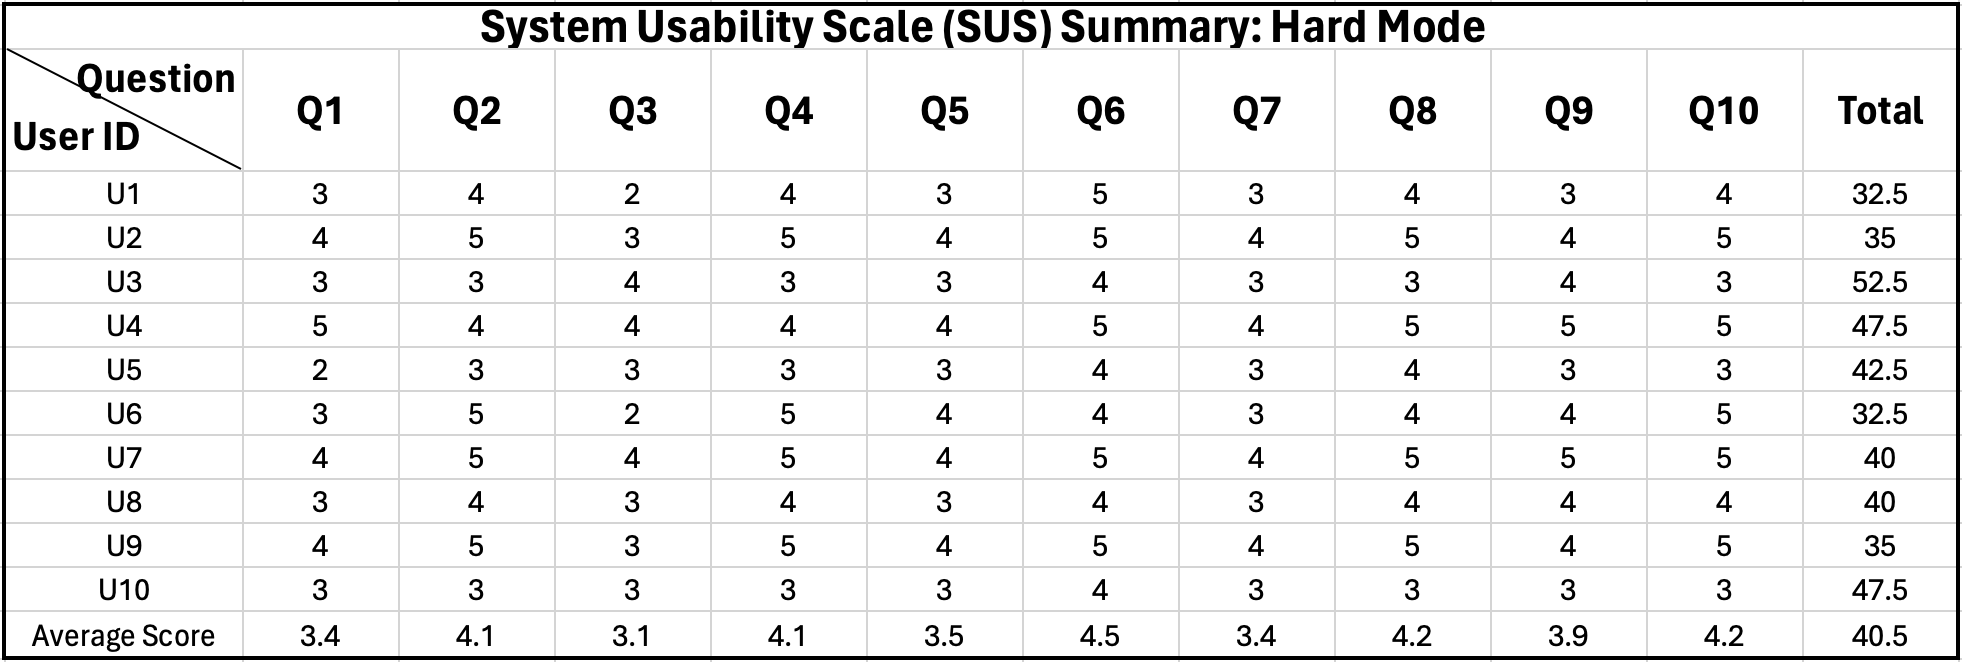
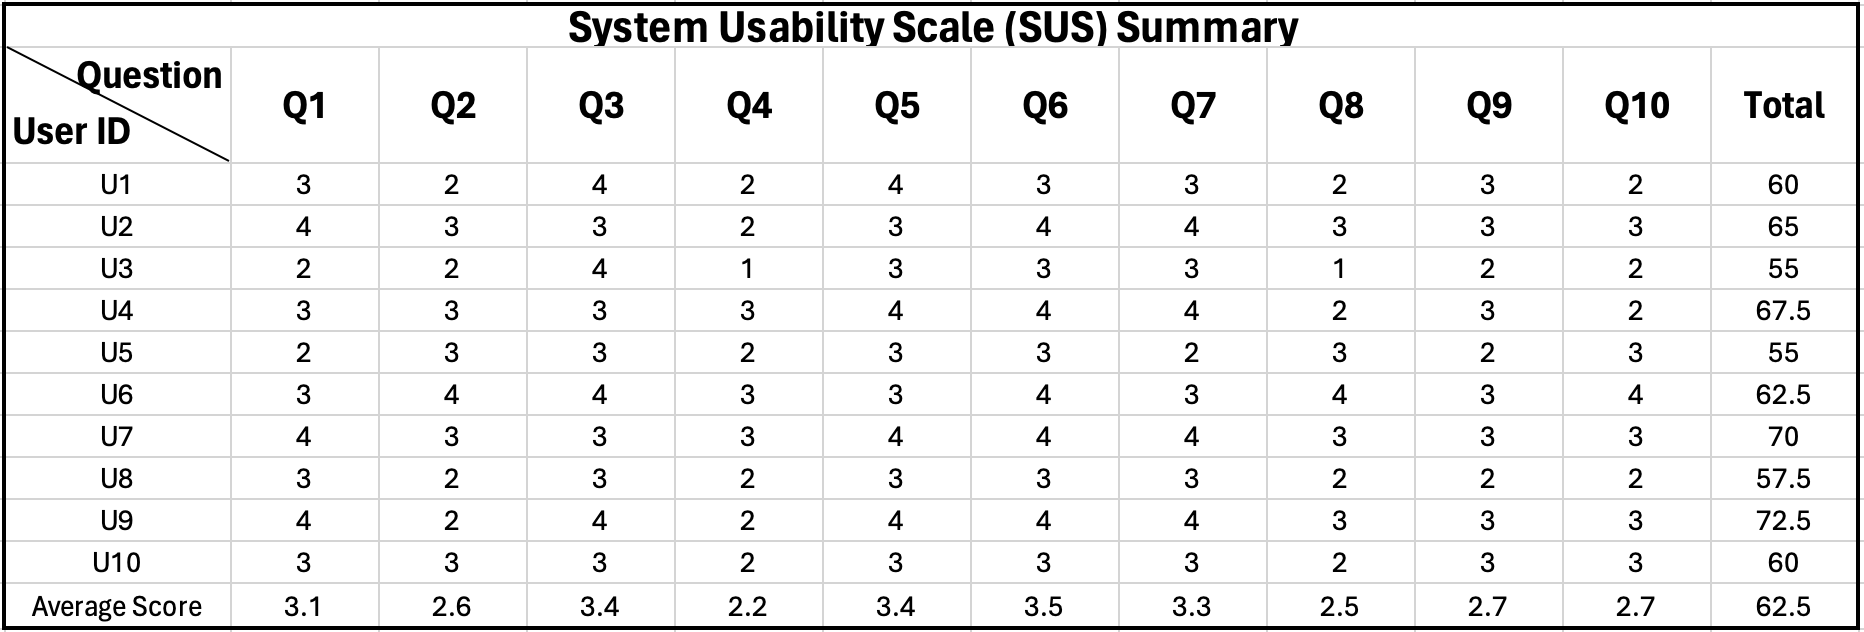
evaluation

diff --git a/README.md b/README.md
@@ -840,44 +840,69 @@ The **Think Aloud method** revealed **micro-interaction issues**, while **interv
 
 ### 6.2 Quantitative Evaluation
 
-To validate the experience in **L1 (Easy Mode)** and **L2 (Hard Mode)**, we collected quantitative data using:
+To evaluate user experience in **L1 (Easy Mode)** and **L2 (Hard Mode)**, we collected quantitative feedback using two standardized instruments:
 
-- **System Usability Scale (SUS)**: Assesses ease of use and interface clarity
-- **NASA-TLX**: Measures user workload across six dimensions: Mental, Physical, Temporal, Performance, Effort, and Frustration
+- **System Usability Scale (SUS)**: Assesses perceived usability and user satisfaction.
+- **NASA-TLX**: Measures perceived workload across six dimensions—Mental, Physical, and Temporal Demand, Effort, Frustration, and Performance.
+
+---
 
 #### NASA-TLX Results
 
-In **L1 Mode**, participants reported low mental and physical demand. The average **Mental Demand** was around **60**, compared to **80** in **L2 Mode**. Frustration scores also rose significantly in L2.
+We first examined average workload scores across all dimensions.
+
+<div align="center">
+  <img src="NASA_bar.png" alt="NASA Bar Chart" width="760">
+  <p><em>Figure 25. NASA-TLX average workload scores per factor in L1 and L2.</em></p>
+</div>
+
+The data shows a consistent increase in workload for **L2**, especially in **Mental Demand** (61.5 → 78.5), **Frustration** (53.5 → 79.5), and **Temporal Demand** (54 → 78). Performance scores, conversely, dropped (72 → 59.5), indicating users struggled more under the harder mode.
+
+To visualize this shift across workload factors holistically, we used a radar plot:
+
+<div align="center">
+  <img src="NASA_radar.png" alt="NASA Radar Chart" width="600">
+  <p><em>Figure 26. NASA-TLX workload profile comparison between L1 and L2.</em></p>
+</div>
+
+> Players in **L1** reported the game felt manageable, with low time pressure and mild frustration. In contrast, **L2** induced higher stress and required more sustained attention.
+
+---
 
 #### SUS Analysis
 
-Using the **Wilcoxon Signed Rank Test**, we compared SUS and NASA-TLX scores between L1 and L2. Results showed:
+While workload increased, usability ratings via the **SUS** remained more nuanced. We used bar charts to compare each participant’s SUS score to the industry benchmark of **68**, revealing how users perceived the system across difficulty levels.
 
-- A **statistically significant increase** in workload under L2
-- Only a **minor difference** in usability scores, indicating UI remained consistently usable across modes
-
-<div align="center">
-  <img src="https://github.com/user-attachments/assets/925e05b2-e862-4e1b-9786-8f38dd1fac45" alt="Figure 1: L1 Evaluation" width="820" height="620">
-  <p><em>Figure 25. NASA-TLX and SUS analysis results for L1 (Easy Mode).</em></p>
-</div>
-
-  > In **L1**, players found the game **easy to use**, with low demand in physical and temporal areas. Frustration levels were mild (20–30 range), aligning with our goal of onboarding new players gently.
+##### L1: Easy Mode
 
 <div align="center">
-  <img src="https://github.com/user-attachments/assets/7263cf0b-1bda-4787-964c-b5155d597a63" alt="Figure 2: L2 Evaluation" width="820" height="620">
-  <p><em>Figure 26. NASA-TLX and SUS analysis results for L2 (Hard Mode).</em></p>
+  <img src="SUS_easy_bar.png" alt="SUS Easy Mode Bar" width="700">
+  <p><em>Figure 27. SUS scores by user in Easy Mode. Benchmark line at 68.</em></p>
 </div>
 
-> In **L2**, difficulty led to higher **effort, frustration, and mental load**. Scores for items like "I found the system unnecessarily complex" or "I needed a lot of support" increased, reflecting a more intense experience.
+> In **Easy Mode**, the **average SUS score was 69**, slightly above the benchmark. Most users found the interface clear and usable, with high ratings from participants like U2, U4, and U9.
+
+##### L2: Hard Mode
+
+<div align="center">
+  <img src="SUS_hard_bar.png" alt="SUS Hard Mode Bar" width="700">
+  <p><em>Figure 28. SUS scores by user in Hard Mode. Benchmark line at 68.</em></p>
+</div>
+
+> In **Hard Mode**, the **average SUS score dropped to 40.5**, significantly below the acceptable usability threshold. Although the UI design remained functional, the increased difficulty led many users to perceive the system as more challenging or even frustrating.
+
+> **This feedback was crucial**: the SUS results indicated that the difficulty level in L2 might have crossed a usability threshold. Based on these insights, **we have already made adjustments** to L2 to better balance challenge and usability.
+
+---
 
 #### Summary Comparison
 
-| Metric               | L1 Easy Mode                     | L2 Hard Mode                              |
-| -------------------- | -------------------------------- | ----------------------------------------- |
-| SUS Usability        | High ease-of-use, low complexity | Slight drop in intuitiveness              |
-| NASA Mental Load     | Avg: 60                          | Avg: 80                                   |
-| Effort & Frustration | Low                              | High                                      |
-| Time Pressure        | Mild decision-making pace        | Required rapid reflex and micro-decisions |
+| Metric               | L1 Easy Mode                          | L2 Hard Mode                             |
+| -------------------- | ------------------------------------- | ---------------------------------------- |
+| SUS Usability        | Avg: 69 – Above benchmark             | Avg: 40.5 – Below benchmark              |
+| NASA Mental Load     | Avg: 61.5                             | Avg: 78.5                                |
+| Effort & Frustration | Low (Effort: 65, Frustration: 53.5)   | High (Effort: 72.5, Frustration: 79.5)   |
+| Time Pressure        | Mild                                  | Intense, fast-paced interactions         |
 
 ---
 
